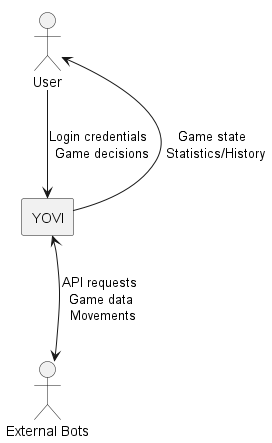
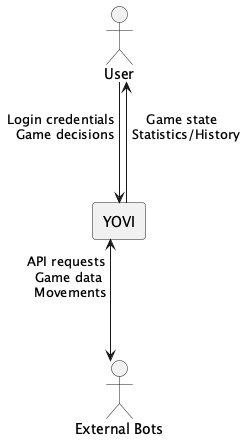
Updates

diff --git a/index.html b/index.html
@@ -476,10 +476,7 @@ body.book #toc,body.book #preamble,body.book h1.sect0,body.book .sect1>h2{page-b
 </li>
 <li><a href="#section-runtime-view">6. Runtime View</a>
 <ul class="sectlevel2">
-<li><a href="#_runtime_scenario_1">6.1. &lt;Runtime Scenario 1&gt;</a></li>
-<li><a href="#_runtime_scenario_2">6.2. &lt;Runtime Scenario 2&gt;</a></li>
-<li><a href="#">6.3. &#8230;&#8203;</a></li>
-<li><a href="#_runtime_scenario_n">6.4. &lt;Runtime Scenario n&gt;</a></li>
+<li><a href="#_user_registration">6.1. User registration</a></li>
 </ul>
 </li>
 <li><a href="#section-deployment-view">7. Deployment View</a>
@@ -883,7 +880,7 @@ These stakeholders determine the extent and the level of detail of your work and
 <h3 id="_business_context">3.1. Business Context</h3>
 <div class="imageblock">
 <div class="content">
-<img src="./images/Business%20context.png" alt="Business context" width="272" height="443">
+<img src="./images/Business%20context.png" alt="Business context" width="246" height="441">
 </div>
 </div>
 <table class="tableblock frame-all grid-all stretch">
@@ -944,7 +941,7 @@ The title of the table is the name of your system, the three columns contain the
 <h3 id="_technical_context">3.2. Technical Context</h3>
 <div class="imageblock">
 <div class="content">
-<img src="./images/Technical%20context.png" alt="Technical context" width="473" height="550">
+<img src="./images/Technical%20context.png" alt="Technical context" width="576" height="685">
 </div>
 </div>
 <table class="tableblock frame-all grid-all stretch">
@@ -1547,6 +1544,9 @@ part of arc42 for additional levels.</p>
 <div class="sect1">
 <h2 id="section-runtime-view">6. Runtime View</h2>
 <div class="sectionbody">
+<div class="paragraph">
+<p>This section illustrates key runtime operations and interactions among the system’s components.</p>
+</div>
 <div class="sidebarblock arc42help">
 <div class="content">
 <div class="paragraph">
@@ -1610,37 +1610,15 @@ You will mainly capture scenarios in your documentation to communicate your arch
 </div>
 </div>
 <div class="sect2">
-<h3 id="_runtime_scenario_1">6.1. &lt;Runtime Scenario 1&gt;</h3>
-<div class="ulist">
-<ul>
-<li>
-<p><em>&lt;insert runtime diagram or textual description of the scenario&gt;</em></p>
-</li>
-<li>
-<p><em>&lt;insert description of the notable aspects of the interactions between the
-building block instances depicted in this diagram.&gt;</em></p>
-</li>
-</ul>
-</div>
+<h3 id="_user_registration">6.1. User registration</h3>
 <div class="paragraph">
-<p>It is possible to use a sequence diagram:</p>
+<p>This scenario shows how a user registers in the system, including how the frontend and backend communicate.</p>
 </div>
 <div class="imageblock">
 <div class="content">
-<img src="./images/Sequence%20diagram.png" alt="Sequence diagram" width="332" height="335">
+<img src="./images/Sequence%20diagram%20-%20Login%20.png" alt="Sequence diagram   Login " width="414" height="344">
 </div>
 </div>
-</div>
-<div class="sect2">
-<h3 id="_runtime_scenario_2">6.2. &lt;Runtime Scenario 2&gt;</h3>
-
-</div>
-<div class="sect2">
-<h3 id="">6.3. &#8230;&#8203;</h3>
-
-</div>
-<div class="sect2">
-<h3 id="_runtime_scenario_n">6.4. &lt;Runtime Scenario n&gt;</h3>
 <div style="page-break-after: always;"></div>
 </div>
 </div>
@@ -1648,139 +1626,172 @@ building block instances depicted in this diagram.&gt;</em></p>
 <div class="sect1">
 <h2 id="section-deployment-view">7. Deployment View</h2>
 <div class="sectionbody">
-<div class="sidebarblock arc42help">
-<div class="content">
+<div class="sect2">
+<h3 id="_infrastructure_level_1">7.1. Infrastructure Level 1</h3>
 <div class="paragraph">
-<div class="title">Content</div>
-<p>The deployment view describes:</p>
+<p>This level describes the distribution of the system across the environments used during the development and production phases of the YOVI_en3a project.</p>
+</div>
+<div class="paragraph">
+<p><strong>Motivation</strong>
+The project is designed to be highly portable. By using a Virtual Machine on Azure, we ensure that the application is accessible via a public IP/DNS for grading and testing, while the local environment is used for rapid development.</p>
+</div>
+<div class="paragraph">
+<p><strong>Quality and/or Performance Features</strong>
+* <strong>Availability:</strong> The Azure VM provides a stable 24/7 uptime.
+* <strong>Security:</strong> Management access is restricted via SSH (Port 22). Public access is strictly limited to Ports 80, 3000, and 4000 via Azure Network Security Groups.
+* <strong>Portability:</strong> The entire stack is containerized, allowing the team to switch from Azure to any other cloud provider with minimal configuration changes.</p>
+</div>
+<div class="paragraph">
+<p><strong>Mapping</strong></p>
+</div>
+<table class="tableblock frame-all grid-all stretch">
+<colgroup>
+<col style="width: 33.3333%;">
+<col style="width: 66.6667%;">
+</colgroup>
+<thead>
+<tr>
+<th class="tableblock halign-left valign-top">Element</th>
+<th class="tableblock halign-left valign-top">Software Artifacts (Building Blocks)</th>
+</tr>
+</thead>
+<tbody>
+<tr>
+<td class="tableblock halign-left valign-top"><p class="tableblock"><strong>Local Developer PC</strong></p></td>
+<td class="tableblock halign-left valign-top"><p class="tableblock">Source code, Node.js environment, Rust toolchain, and local Docker Desktop.</p></td>
+</tr>
+<tr>
+<td class="tableblock halign-left valign-top"><p class="tableblock"><strong>Azure VM (Ubuntu)</strong></p></td>
+<td class="tableblock halign-left valign-top"><p class="tableblock">Production containers: <code>webapp</code>, <code>users</code>, <code>gamey</code>, and <code>mongodb</code>.</p></td>
+</tr>
+</tbody>
+</table>
+<hr>
+</div>
+<div class="sect2">
+<h3 id="_infrastructure_level_2">7.2. Infrastructure Level 2</h3>
+<div class="paragraph">
+<p>This level zooms into the internal structure of the production environment hosted on Azure.</p>
+</div>
+<div class="imageblock">
+<div class="content">
+<img src="./images/deployment-lv1.png" alt="deployment lv1" width="796" height="146">
+</div>
+</div>
+<div class="sect3">
+<h4 id="_azure_virtual_machine_docker_host">7.2.1. Azure Virtual Machine (Docker Host)</h4>
+<div class="paragraph">
+<p>The system is orchestrated using <strong>Docker Compose</strong> within a single Ubuntu-based Virtual Machine.</p>
+</div>
+<div class="paragraph">
+<p><strong>Motivation</strong>
+Using a single VM with Docker Compose reduces architectural complexity and costs for the University project while maintaining complete isolation between the microservices.</p>
+</div>
+<div class="paragraph">
+<p><strong>Quality and/or Performance Features</strong></p>
+</div>
+<div class="ulist">
+<ul>
+<li>
+<p><strong>Resource Efficiency:</strong> The <code>gamey</code> engine uses a <strong>multi-stage Docker build</strong> (based on <code>debian:bookworm-slim</code>). This ensures the VM does not waste RAM or Disk space on the Rust compiler during execution.</p>
+</li>
+<li>
+<p><strong>Orchestration &amp; Decoupling:</strong> The game-manager acts as a central orchestrator, ensuring that only one service depends on the gamey engine. This isolates the complex Rust logic, simplifying maintenance and decoupling game state from raw calculations.</p>
+</li>
+<li>
+<p><strong>Persistence:</strong> A Docker Volume is used for the MongoDB container, ensuring data remains intact even if the container is recreated.</p>
+</li>
+<li>
+<p><strong>Isolation:</strong> All containers communicate through a private bridge network (<code>monitor-net</code>).</p>
+</li>
+</ul>
+</div>
+<div class="paragraph">
+<p><strong>Mapping</strong></p>
+</div>
+<table class="tableblock frame-all grid-all stretch">
+<colgroup>
+<col style="width: 20%;">
+<col style="width: 40%;">
+<col style="width: 40%;">
+</colgroup>
+<thead>
+<tr>
+<th class="tableblock halign-left valign-top">Infrastructure Element</th>
+<th class="tableblock halign-left valign-top">Artifact</th>
+<th class="tableblock halign-left valign-top">Execution Environment</th>
+</tr>
+</thead>
+<tbody>
+<tr>
+<td class="tableblock halign-left valign-top"><p class="tableblock"><strong>Container: webapp</strong></p></td>
+<td class="tableblock halign-left valign-top"><p class="tableblock">React/Vite SPA</p></td>
+<td class="tableblock halign-left valign-top"><p class="tableblock">Nginx / Static HTTP Server</p></td>
+</tr>
+<tr>
+<td class="tableblock halign-left valign-top"><p class="tableblock"><strong>Container: gatewayservice</strong></p></td>
+<td class="tableblock halign-left valign-top"><p class="tableblock">Express Proxy / Helmet</p></td>
+<td class="tableblock halign-left valign-top"><p class="tableblock">Node.js 20+ (Entry Point)</p></td>
+</tr>
+<tr>
+<td class="tableblock halign-left valign-top"><p class="tableblock"><strong>Container: users</strong></p></td>
+<td class="tableblock halign-left valign-top"><p class="tableblock">Node.js / Express API</p></td>
+<td class="tableblock halign-left valign-top"><p class="tableblock">Node.js 20+ Runtime</p></td>
+</tr>
+<tr>
+<td class="tableblock halign-left valign-top"><p class="tableblock"><strong>Container: game-manager</strong></p></td>
+<td class="tableblock halign-left valign-top"><p class="tableblock">Node.js / Orchestrator</p></td>
+<td class="tableblock halign-left valign-top"><p class="tableblock">Node.js 20+ Runtime</p></td>
+</tr>
+<tr>
+<td class="tableblock halign-left valign-top"><p class="tableblock"><strong>Container: gamey</strong></p></td>
+<td class="tableblock halign-left valign-top"><p class="tableblock">Rust Server Binary</p></td>
+<td class="tableblock halign-left valign-top"><p class="tableblock">Debian Slim (No compiler)</p></td>
+</tr>
+<tr>
+<td class="tableblock halign-left valign-top"><p class="tableblock"><strong>Container: mongodb</strong></p></td>
+<td class="tableblock halign-left valign-top"><p class="tableblock">MongoDB Image</p></td>
+<td class="tableblock halign-left valign-top"><p class="tableblock">Mongo 6.0+ Engine</p></td>
+</tr>
+<tr>
+<td class="tableblock halign-left valign-top"><p class="tableblock"><strong>Storage Volume</strong></p></td>
+<td class="tableblock halign-left valign-top"><p class="tableblock">User Database Files</p></td>
+<td class="tableblock halign-left valign-top"><p class="tableblock">Persistent Host File System</p></td>
+</tr>
+</tbody>
+</table>
+<div class="paragraph">
+<p><strong>Azure connections</strong></p>
+</div>
+<div class="imageblock">
+<div class="content">
+<img src="./images/deployment-lv2-azure.png" alt="deployment lv2 azure" width="783" height="432">
+</div>
+</div>
+</div>
+<div class="sect3">
+<h4 id="_communication_channels">7.2.2. Communication Channels</h4>
+<div class="paragraph">
+<p>The following channels facilitate data exchange between the infrastructure nodes:</p>
 </div>
 <div class="olist arabic">
 <ol class="arabic">
 <li>
-<p>technical infrastructure used to execute your system, with infrastructure elements like geographical locations, environments, computers, processors, channels and net topologies as well as other infrastructure elements and</p>
+<p><strong>HTTP (Port 80):</strong> Used by the end-user’s browser to download the <code>webapp</code> assets.</p>
 </li>
 <li>
-<p>mapping of (software) building blocks to that infrastructure elements.</p>
+<p><strong>REST/JSON (Port 8000):</strong> The <strong>single entry point</strong> for all API communication. The <code>gatewayservice</code> receives requests from the frontend and routes them to <code>users</code>, <code>game-manager</code>, or <code>gamey</code> based on the URL path.</p>
+</li>
+<li>
+<p><strong>Internal Microservice Communication:</strong> Services communicate within the <code>monitor-net</code> Docker network. The <code>game-manager</code> requests move validations from <code>gamey</code> via internal REST calls.</p>
+</li>
+<li>
+<p><strong>Database Access (Port 27017):</strong> Internal connection using the MongoDB Wire Protocol. Used by <code>users</code> for profile management and <code>game-manager</code> for persistent board state storage.</p>
+</li>
+<li>
+<p><strong>SSH (Port 22):</strong> Secure management channel for developers to perform <code>git pull</code> and <code>docker-compose up</code> operations.</p>
 </li>
 </ol>
-</div>
-<div class="paragraph">
-<p>Often systems are executed in different environments, e.g. development environment, test environment, production environment. In such cases you should document all relevant environments.</p>
-</div>
-<div class="paragraph">
-<p>Especially document a deployment view if your software is executed as distributed system with more than one computer, processor, server or container or when you design and construct your own hardware processors and chips.</p>
-</div>
-<div class="paragraph">
-<p>From a software perspective it is sufficient to capture only those elements of an infrastructure that are needed to show a deployment of your building blocks. Hardware architects can go beyond that and describe an infrastructure to any level of detail they need to capture.</p>
-</div>
-<div class="paragraph">
-<div class="title">Motivation</div>
-<p>Software does not run without hardware.
-This underlying infrastructure can and will influence a system and/or some
-cross-cutting concepts. Therefore, there is a need to know the infrastructure.</p>
-</div>
-<div class="paragraph">
-<div class="title">Form</div>
-<p>Maybe a highest level deployment diagram is already contained in section 3.2. as
-technical context with your own infrastructure as ONE black box. In this section one can
-zoom into this black box using additional deployment diagrams:</p>
-</div>
-<div class="ulist">
-<ul>
-<li>
-<p>UML offers deployment diagrams to express that view. Use it, probably with nested diagrams,
-when your infrastructure is more complex.</p>
-</li>
-<li>
-<p>When your (hardware) stakeholders prefer other kinds of diagrams rather than a deployment diagram, let them use any kind that is able to show nodes and channels of the infrastructure.</p>
-</li>
-</ul>
-</div>
-<div class="paragraph">
-<div class="title">Further Information</div>
-<p>See <a href="https://docs.arc42.org/section-7/">Deployment View</a> in the arc42 documentation.</p>
-</div>
-</div>
-</div>
-<div class="sect2">
-<h3 id="_infrastructure_level_1">7.1. Infrastructure Level 1</h3>
-<div class="sidebarblock arc42help">
-<div class="content">
-<div class="paragraph">
-<p>Describe (usually in a combination of diagrams, tables, and text):</p>
-</div>
-<div class="ulist">
-<ul>
-<li>
-<p>distribution of a system to multiple locations, environments, computers, processors, .., as well as physical connections between them</p>
-</li>
-<li>
-<p>important justifications or motivations for this deployment structure</p>
-</li>
-<li>
-<p>quality and/or performance features of this infrastructure</p>
-</li>
-<li>
-<p>mapping of software artifacts to elements of this infrastructure</p>
-</li>
-</ul>
-</div>
-<div class="paragraph">
-<p>For multiple environments or alternative deployments please copy and adapt this section of arc42 for all relevant environments.</p>
-</div>
-</div>
-</div>
-<div class="paragraph">
-<p><em><strong>&lt;Overview Diagram&gt;</strong></em></p>
-</div>
-<div class="dlist">
-<dl>
-<dt class="hdlist1">Motivation</dt>
-<dd>
-<p><em>&lt;explanation in text form&gt;</em></p>
-</dd>
-<dt class="hdlist1">Quality and/or Performance Features</dt>
-<dd>
-<p><em>&lt;explanation in text form&gt;</em></p>
-</dd>
-<dt class="hdlist1">Mapping of Building Blocks to Infrastructure</dt>
-<dd>
-<p><em>&lt;description of the mapping&gt;</em></p>
-</dd>
-</dl>
-</div>
-</div>
-<div class="sect2">
-<h3 id="_infrastructure_level_2">7.2. Infrastructure Level 2</h3>
-<div class="sidebarblock arc42help">
-<div class="content">
-<div class="paragraph">
-<p>Here you can include the internal structure of (some) infrastructure elements from level 1.</p>
-</div>
-<div class="paragraph">
-<p>Please copy the structure from level 1 for each selected element.</p>
-</div>
-</div>
-</div>
-<div class="sect3">
-<h4 id="_infrastructure_element_1">7.2.1. <em>&lt;Infrastructure Element 1&gt;</em></h4>
-<div class="paragraph">
-<p><em>&lt;diagram + explanation&gt;</em></p>
-</div>
-</div>
-<div class="sect3">
-<h4 id="_infrastructure_element_2">7.2.2. <em>&lt;Infrastructure Element 2&gt;</em></h4>
-<div class="paragraph">
-<p><em>&lt;diagram + explanation&gt;</em></p>
-</div>
-<div class="paragraph">
-<p>&#8230;&#8203;</p>
-</div>
-</div>
-<div class="sect3">
-<h4 id="_infrastructure_element_n">7.2.3. <em>&lt;Infrastructure Element n&gt;</em></h4>
-<div class="paragraph">
-<p><em>&lt;diagram + explanation&gt;</em></p>
 </div>
 <div style="page-break-after: always;"></div>
 </div>
@@ -2160,7 +2171,7 @@ more precisely down to a level of scenarios that can be discussed and evaluated.
 <div id="footer">
 <div id="footer-text">
 Version 8.2 EN<br>
-Last updated 2026-02-12 13:34:46 +0100
+Last updated 2026-02-06 19:04:45 +0100
 </div>
 </div>
 </body>
